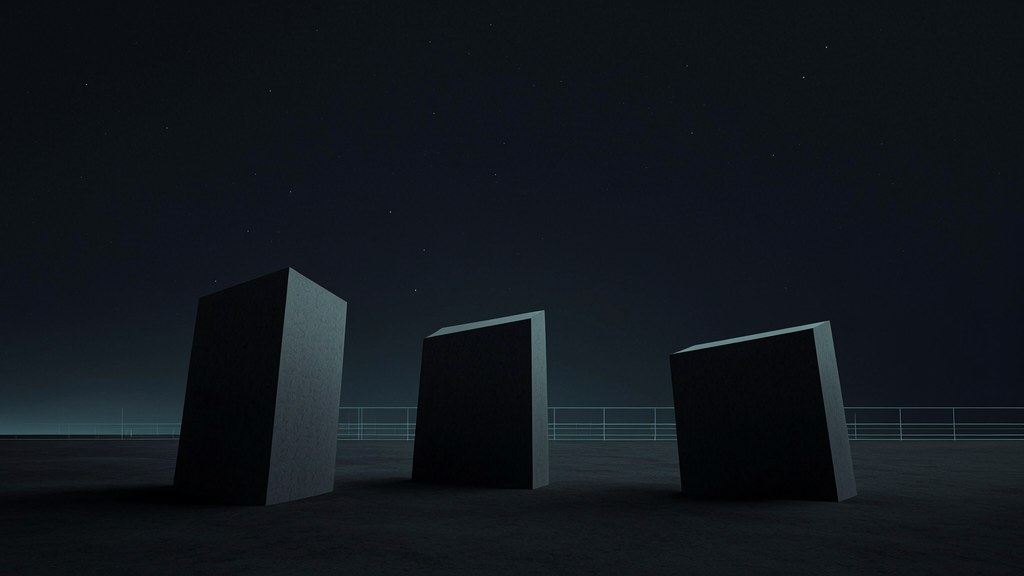
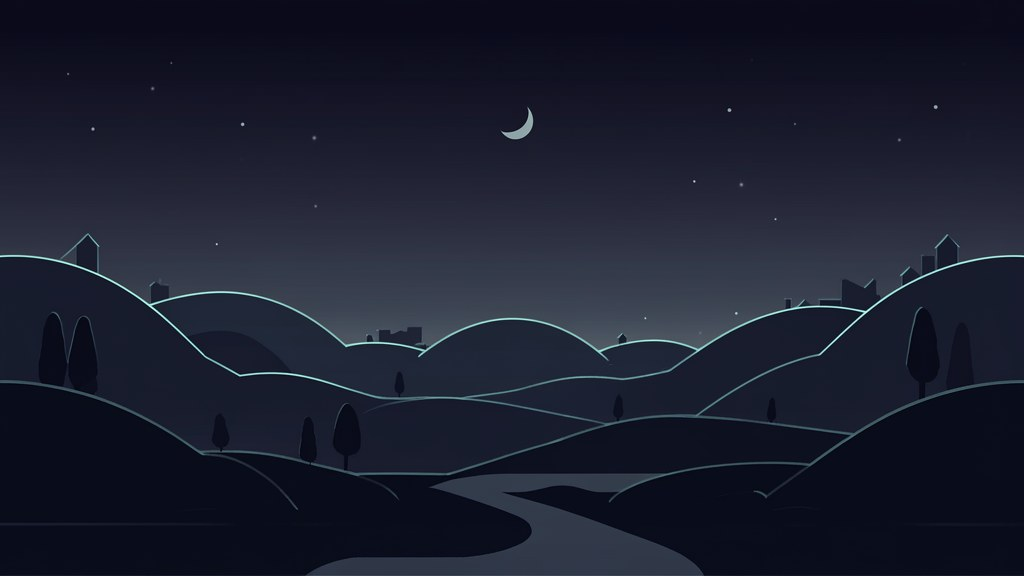
Polish hero reveal, slow auto-scroll, fix stale resume PDFs
Hero:
- Replace backdrop with a modern dark-mode Pokemon-map style image
  (previous brutalist visual didn't match the game's theme)
- Slow the spotlight's auto-orbit drift and cursor-follow lerp — was
  moving too fast/jittery when idle
- Shrink spotlight radius (230->170px) and hero section height
  (68vh->56vh) so the reveal section takes up less of the fold
- Restructure the reveal layer so the pixel-world image is oversized
  before "cover" crops it — was zoomed in too tight, now shows more
  of the scene
- Brighten/desaturate-boost the reveal layer and lighten its scanline
  overlay so it reads as the "light" layer against the dark backdrop

Resume PDFs:
- Add missing hyperiterate.com link to the contact row in both the
  full resume and 1-pager PDF routes
- Add Cache-Control: no-store and force-dynamic to both PDF routes —
  downloads were serving a stale cached PDF after content changes

diff --git a/components/home/SpotlightHero.tsx b/components/home/SpotlightHero.tsx
@@ -4,7 +4,7 @@ import Link from "next/link";
 import { useEffect, useRef } from "react";
 import { motion, useScroll, useTransform, useReducedMotion } from "motion/react";
 
-const SPOTLIGHT_R = 230;
+const SPOTLIGHT_R = 170;
 
 /**
  * Cinematic hero for the playable portfolio.
@@ -49,12 +49,13 @@ export function SpotlightHero() {
       const idle = mouse.current.x < -9000;
 
       if (!hasHover || reduce || idle) {
-        // Auto-orbit the spotlight so the reveal is alive without a cursor
-        t += reduce ? 0 : 0.011;
+        // Auto-orbit the spotlight so the reveal is alive without a cursor —
+        // kept slow and lazy so it doesn't feel jittery/attention-grabbing.
+        t += reduce ? 0 : 0.0028;
         const tx = rect.width / 2 + Math.cos(t) * rect.width * 0.26;
         const ty = rect.height / 2 + Math.sin(t * 1.3) * rect.height * 0.2;
-        smooth.current.x += (tx - smooth.current.x) * 0.06;
-        smooth.current.y += (ty - smooth.current.y) * 0.06;
+        smooth.current.x += (tx - smooth.current.x) * 0.035;
+        smooth.current.y += (ty - smooth.current.y) * 0.035;
       } else {
         smooth.current.x += (mouse.current.x - smooth.current.x) * 0.12;
         smooth.current.y += (mouse.current.y - smooth.current.y) * 0.12;
@@ -99,14 +100,14 @@ export function SpotlightHero() {
       style={{
         position: "relative",
         width: "100%",
-        height: "68vh",
-        minHeight: 460,
-        maxHeight: 720,
+        height: "56vh",
+        minHeight: 400,
+        maxHeight: 600,
         overflow: "hidden",
         background: "#03060f",
       }}
     >
-      {/* Base layer — subtle brutalist cosmos */}
+      {/* Base layer — modern dark Pokémon-map backdrop */}
       <motion.div
         aria-hidden
         style={{
@@ -117,10 +118,10 @@ export function SpotlightHero() {
           backgroundImage: "url(/hero/hero-cosmos.jpg)",
           backgroundSize: "cover",
           backgroundPosition: "center",
-          filter: "saturate(0.85) contrast(1.08)",
+          filter: "saturate(0.9) contrast(1.03)",
         }}
       />
-      {/* Legibility wash over the cosmos */}
+      {/* Legibility wash over the backdrop */}
       <div
         aria-hidden
         style={{
@@ -128,11 +129,16 @@ export function SpotlightHero() {
           inset: 0,
           zIndex: 11,
           background:
-            "radial-gradient(ellipse at 50% 42%, rgba(3,6,15,0.25), rgba(3,6,15,0.8) 85%)",
+            "radial-gradient(ellipse at 50% 42%, rgba(3,6,15,0.2), rgba(3,6,15,0.75) 85%)",
         }}
       />
 
-      {/* Reveal layer — the pixel game world, masked to the spotlight */}
+      {/* Reveal layer — the pixel game world, masked to the spotlight.
+          The mask + mouse-tracking math is kept on this outer box (same
+          size/position as the section) so the coordinate space stays
+          correct; the actual image lives on an oversized inner layer so
+          "cover" crops far less aggressively — showing more of the scene
+          instead of a zoomed-in sliver of it. */}
       <div
         ref={revealRef}
         aria-hidden
@@ -140,22 +146,34 @@ export function SpotlightHero() {
           position: "absolute",
           inset: 0,
           zIndex: 20,
-          backgroundImage: "url(/hero/hero-world.jpg)",
-          backgroundSize: "cover",
-          backgroundPosition: "center",
-          imageRendering: "pixelated",
           pointerEvents: "none",
           maskImage: maskGradient,
           WebkitMaskImage: maskGradient,
         }}
       >
-        {/* pixel scanlines only inside the reveal */}
+        {/* Oversized image layer — zoomed out relative to the visible box */}
+        <div
+          style={{
+            position: "absolute",
+            top: "-32%",
+            bottom: "-32%",
+            left: "-12%",
+            right: "-12%",
+            backgroundImage: "url(/hero/hero-world.jpg)",
+            backgroundSize: "cover",
+            backgroundPosition: "center",
+            imageRendering: "pixelated",
+            filter: "brightness(1.12) saturate(1.08)",
+          }}
+        />
+        {/* pixel scanlines only inside the reveal — kept subtle so the
+            reveal reads as bright/light against the dark backdrop */}
         <div
           style={{
             position: "absolute",
             inset: 0,
             backgroundImage:
-              "repeating-linear-gradient(0deg, transparent, transparent 2px, rgba(0,0,0,0.18) 2px, rgba(0,0,0,0.18) 3px)",
+              "repeating-linear-gradient(0deg, transparent, transparent 2px, rgba(0,0,0,0.08) 2px, rgba(0,0,0,0.08) 3px)",
           }}
         />
       </div>
@@ -228,7 +246,7 @@ export function SpotlightHero() {
             letterSpacing: "0.32em",
             color: "#7ce0ff",
             textShadow: "0 0 18px rgba(124,224,255,0.6)",
-            marginBottom: 16,
+            marginBottom: 12,
           }}
         >
           ★ A PLAYABLE PORTFOLIO
@@ -248,7 +266,7 @@ export function SpotlightHero() {
                 style={{
                   display: "inline-block",
                   fontFamily: "var(--font-pixel)",
-                  fontSize: "clamp(32px, 7.5vw, 78px)",
+                  fontSize: "clamp(28px, 6.5vw, 66px)",
                   color: "#ffffff",
                   letterSpacing: "-0.01em",
                   textShadow:

diff --git a/app/api/resume-1p/route.tsx b/app/api/resume-1p/route.tsx
@@ -41,6 +41,7 @@ function OnePageResumePDF() {
           <View style={styles.contactRow}>
             <Link src="mailto:minhas.param@gmail.com"><Text>minhas.param@gmail.com</Text></Link>
             <Link src="https://linkedin.com/in/paramminhas"><Text>linkedin.com/in/paramminhas</Text></Link>
+            <Link src="https://hyperiterate.com"><Text>hyperiterate.com</Text></Link>
             <Link src="https://catscandance.com"><Text>catscandance.com</Text></Link>
             <Text>Bengaluru, India</Text>
           </View>
@@ -158,12 +159,21 @@ function OnePageResumePDF() {
   );
 }
 
+// Force dynamic rendering — without this, Next.js may statically generate
+// and cache this route at build time server-side (in addition to the
+// browser-side no-store header below), serving a stale PDF after content
+// changes.
+export const dynamic = "force-dynamic";
+
 export async function GET() {
   const buffer = await renderToBuffer(<OnePageResumePDF />);
   return new Response(new Uint8Array(buffer), {
     headers: {
       "Content-Type": "application/pdf",
       "Content-Disposition": 'attachment; filename="Param_Minhas_1Pager.pdf"',
+      // Always regenerate on download — prevents browsers/CDNs from serving
+      // a stale cached PDF after the resume content is updated.
+      "Cache-Control": "no-store, no-cache, must-revalidate",
     },
   });
 }

diff --git a/app/api/resume-pdf/route.tsx b/app/api/resume-pdf/route.tsx
@@ -75,6 +75,7 @@ function FullResumePDF() {
           <View style={styles.contactRow}>
             <Link src="mailto:minhas.param@gmail.com"><Text>minhas.param@gmail.com</Text></Link>
             <Link src="https://linkedin.com/in/paramminhas"><Text>linkedin.com/in/paramminhas</Text></Link>
+            <Link src="https://hyperiterate.com"><Text>hyperiterate.com</Text></Link>
             <Link src="https://catscandance.com"><Text>catscandance.com</Text></Link>
             <Text>Bengaluru, India</Text>
           </View>
@@ -165,12 +166,21 @@ function FullResumePDF() {
   );
 }
 
+// Force dynamic rendering — without this, Next.js may statically generate
+// and cache this route at build time server-side (in addition to the
+// browser-side no-store header below), serving a stale PDF after content
+// changes.
+export const dynamic = "force-dynamic";
+
 export async function GET() {
   const buffer = await renderToBuffer(<FullResumePDF />);
   return new Response(new Uint8Array(buffer), {
     headers: {
       "Content-Type": "application/pdf",
       "Content-Disposition": 'attachment; filename="Param_Minhas_Resume.pdf"',
+      // Always regenerate on download — prevents browsers/CDNs from serving
+      // a stale cached PDF after the resume content is updated.
+      "Cache-Control": "no-store, no-cache, must-revalidate",
     },
   });
 }
